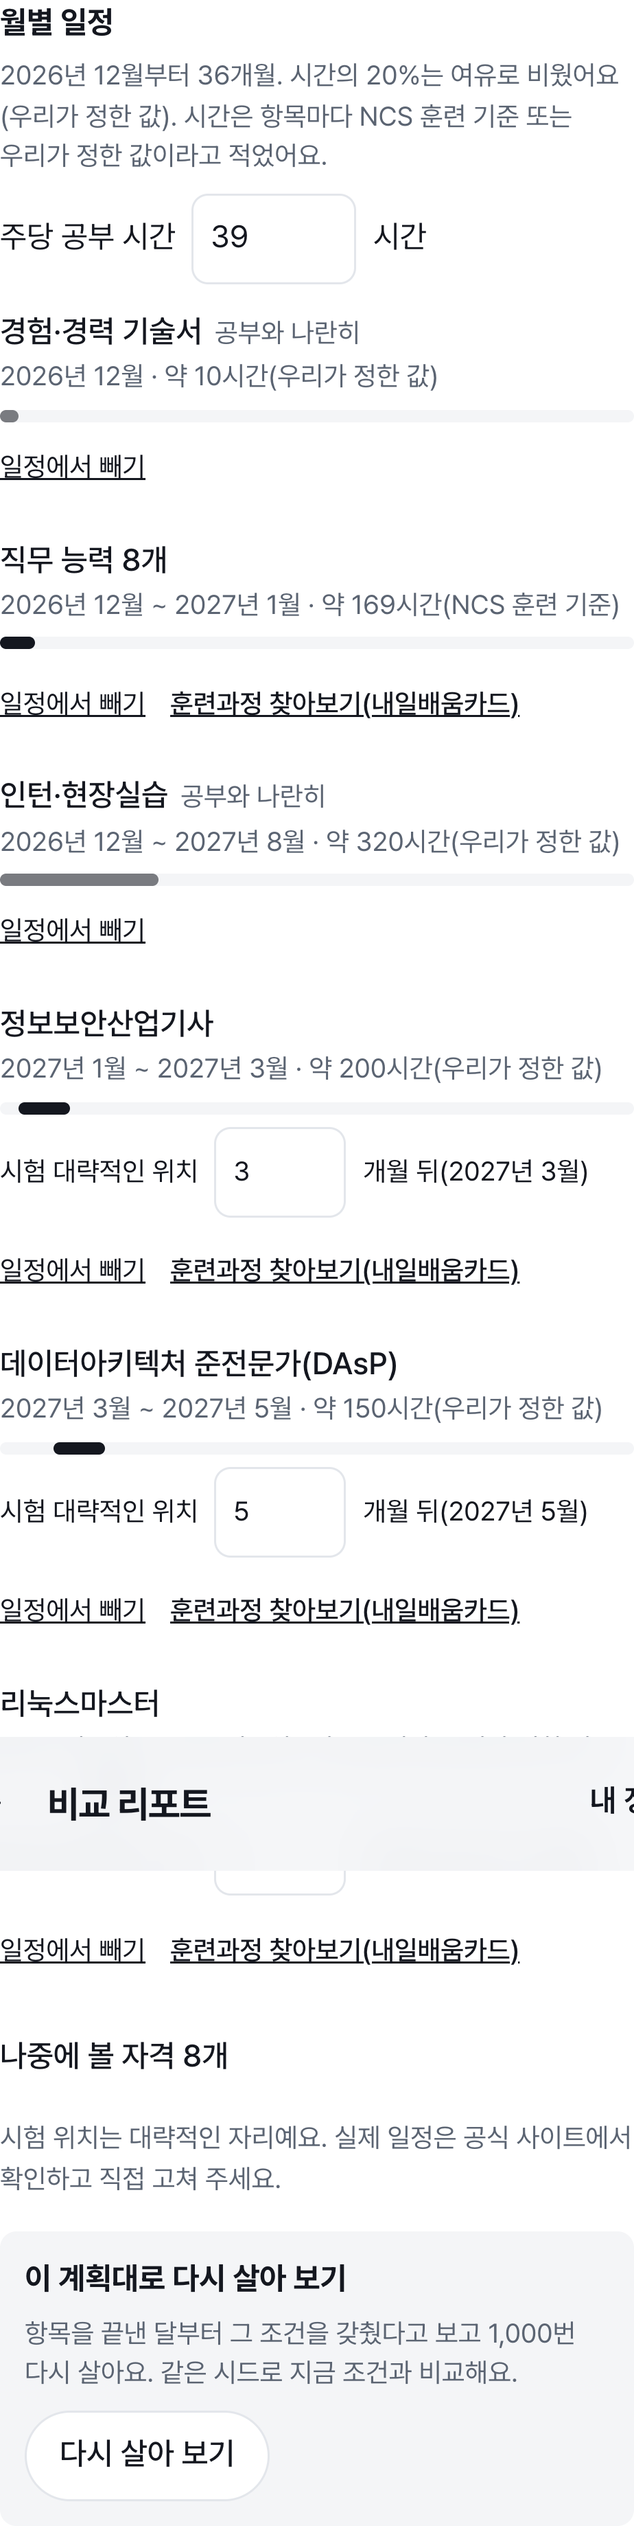
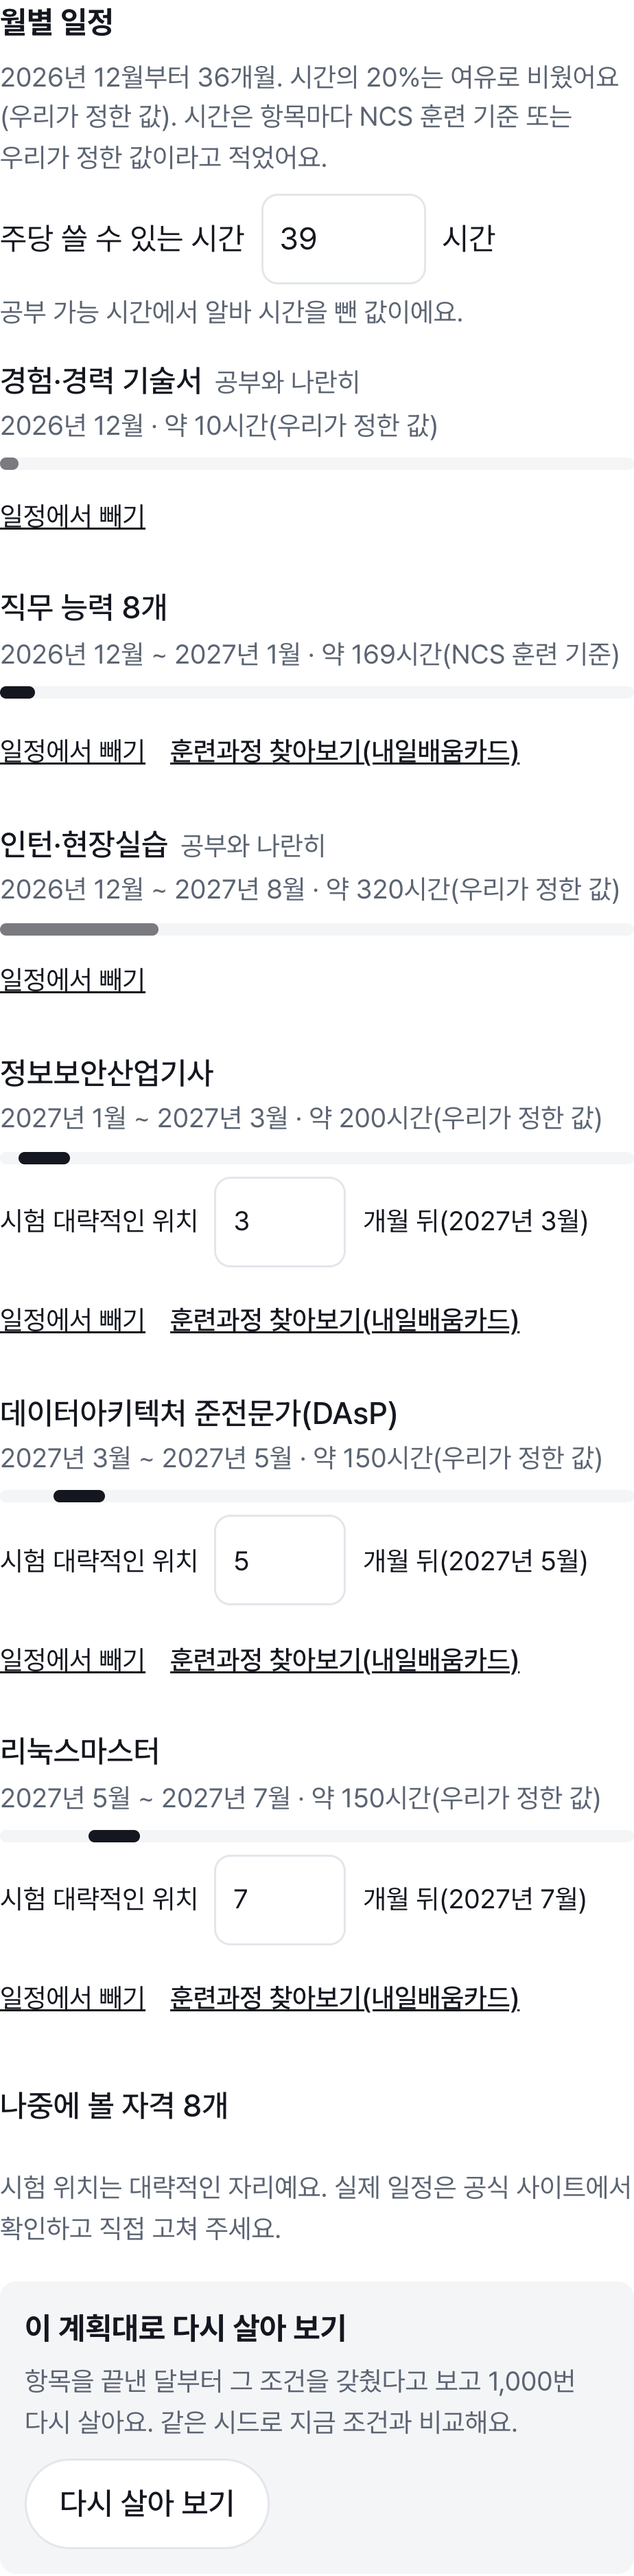
08·17 다시 캡처(머리글 진행 표시 비움, '주당 쓸 수 있는 시간'), AI 호출 0번

diff --git a/docs/screens/deck/README.md b/docs/screens/deck/README.md
@@ -20,7 +20,7 @@
 | 05 | 05_진로고르기 | 김민준 | 추천 목록(첫 화면), '간호' 검색 → 간호사 예상 67% 맞음 |
 | 06 | 06_시뮬레이션_진행중 | 이서연 | 분신 판단 진행 막대 (4/8), 실제로 새로 받는 중에 찍음 |
 | 07 | 07_시뮬레이션_요약카드 | 김민준 | 가장 흔한 길 한 번의 삶: 취업 2027년 6월, 끝날 때 300인 이상 회사 30개월차, 만족도 65/100, 모은 돈 8,224만원, 연봉 5,001만원 |
-| 08 | 08_갈림길_펼침 | 김민준 | 2027년 9~11월 '신규 1년, 그만둘지 고민된다'(4개월차) → 버티며 1년을 채운다, 보통 56% → 나 63%(AI 분신 판단), '통계에 맞춰 보정' 배지(KOSIS 근속·첫 직장 18.4개월), 1,000번 중 846번 |
+| 08 | 08_갈림길_펼침 | 김민준 | 2027년 9~11월 '신규 1년, 그만둘지 고민된다'(4개월차) → 버티며 1년을 채운다, 보통 56% → 나 63%(AI 분신 판단), '통계에 맞춰 보정' 배지(KOSIS 근속·첫 직장 18.4개월), 1,000번 중 846번. 머리글 오른쪽 날짜는 끝난 뒤 비움(예전 캡처는 마지막 칸 '2029년 9~11월'이 남아 장면 날짜처럼 보였음) |
 | 09 | 09_갈래길지도 | 김민준 | 3년 안에 취업 88% (86~90%), 1,000번 가운데 2027년 9월, 만족 50% (47~53%), 스트레스 높게 끝남 47%, 모은 돈 3,313만원, 연봉(일하는 경우) 3,595만원 |
 | 10 | 10_바꿀수있는것_Top3 | 김민준 | 코딩 실력 한 단계 86% → 94%(200번), 번아웃 → 잠시 쉼 49% → 63%, 이직 제안 → 이직함 72% → 86% |
 | 11 | 11_진로비교표_간호사vs9급 | 이서연 | 합격·취업 85% vs 17%, 간호사 만족 40%, 9급 합격 17%(그중 만족 34%)·준비 중 48%·다른 길 35%(그중 만족 1%), 스트레스 58% vs 58%, 모은 돈 2,784 vs 1,506만원, 세계선 7개 vs 4개 |
@@ -30,7 +30,7 @@
 | 14 | 14_격차분석 | 김민준 | 필요한 것 24개 중 있음 3 · 부분적 9 · 없음 12, 이미 가진 것: 정보처리산업기사·정보처리기능사·프로젝트 |
 | 15 | 15_우선순위근거 | 김민준 | 공고 집계 없음(기관 키 필요) · 시뮬레이션 +8%p · 약 1개월(NCS 훈련 기준 시간) |
 | 16 | 16_자격증추천 | 김민준 | DAsP + '공식 사이트' 링크 |
-| 17 | 17_월별계획표 | 김민준 | 주당 39시간, 36개월, 줄마다 기간 |
+| 17 | 17_월별계획표 | 김민준 | '주당 쓸 수 있는 시간' 39시간 + '공부 가능 시간에서 알바 시간을 뺀 값이에요.', 36개월, 줄마다 기간 (2026-11-08 다시 찍음) |
 | 18 | 18_시간초과_경고_대안 | 김민준 | 주 3시간으로 낮춰 찍음(뒤에 39시간으로 되돌림): '주 8시간이 필요한데 지금은 3시간', '기간을 96개월로 늘리기', '뒤쪽 항목 줄이기' |
 | 19 | 19_훈련과정후보 | 김민준 | 훈련과정 2개, '6개월 취업률 아직 없음' |
 | 20 | 20_증거물 | 김민준 | 애플리케이션 배포: 프로젝트 1개·설명 A4 2쪽(우리가 정한 값), NCS 수행준거 체크리스트 |
